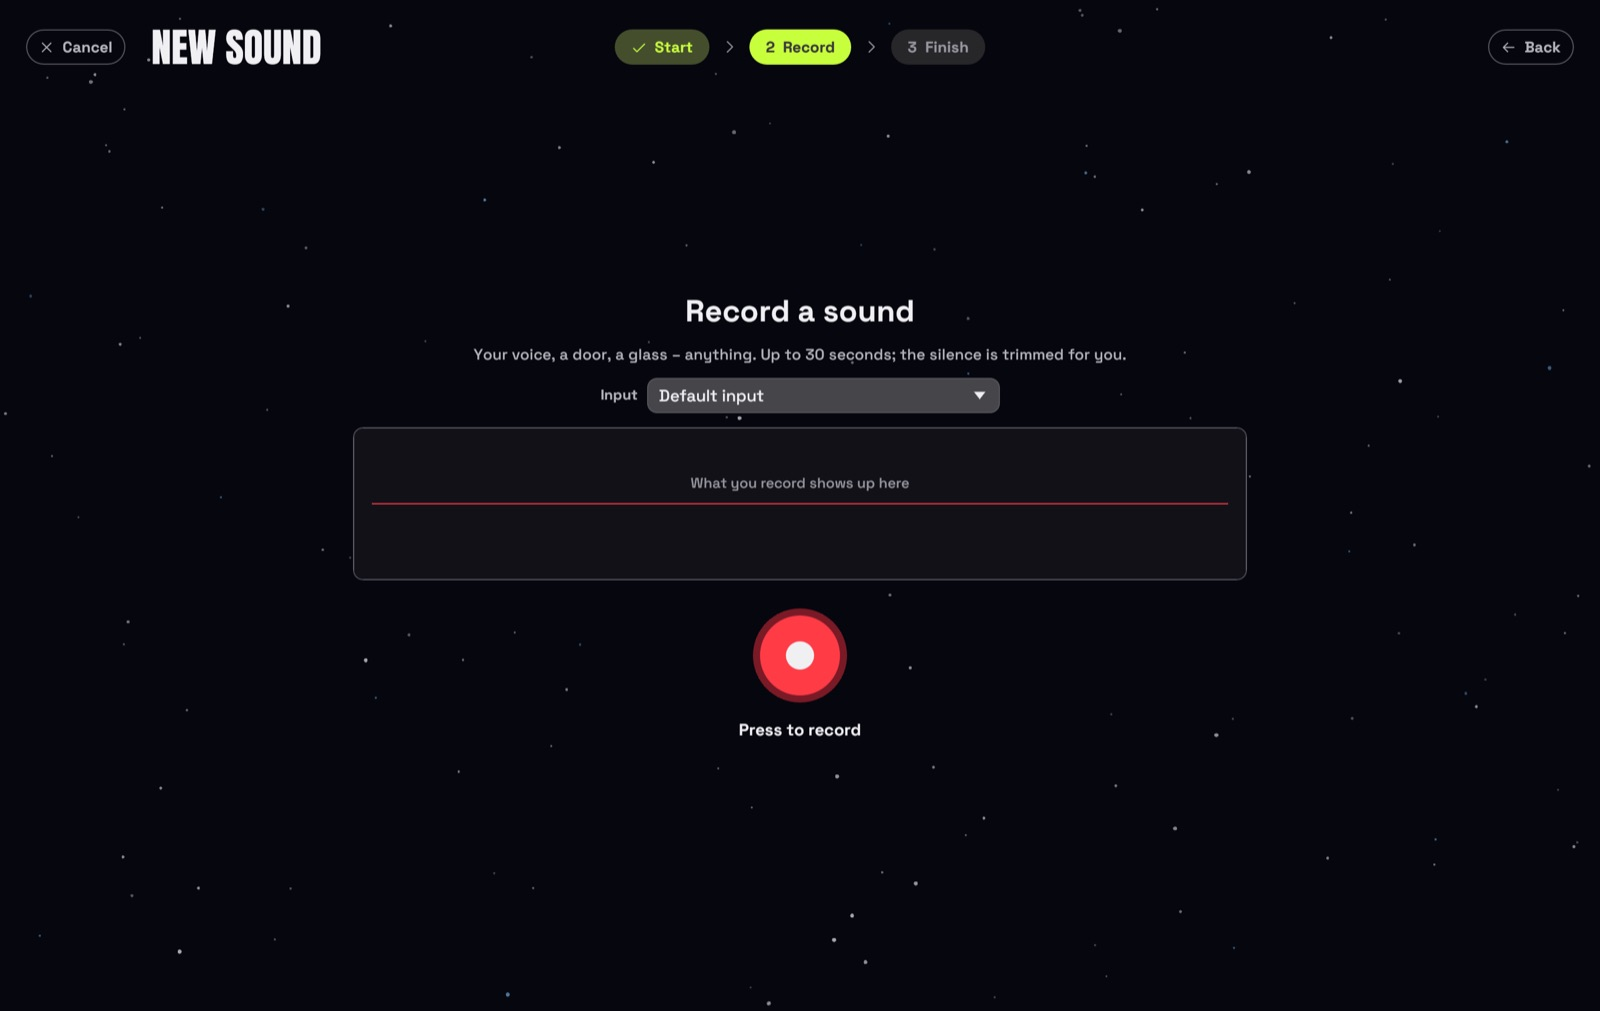
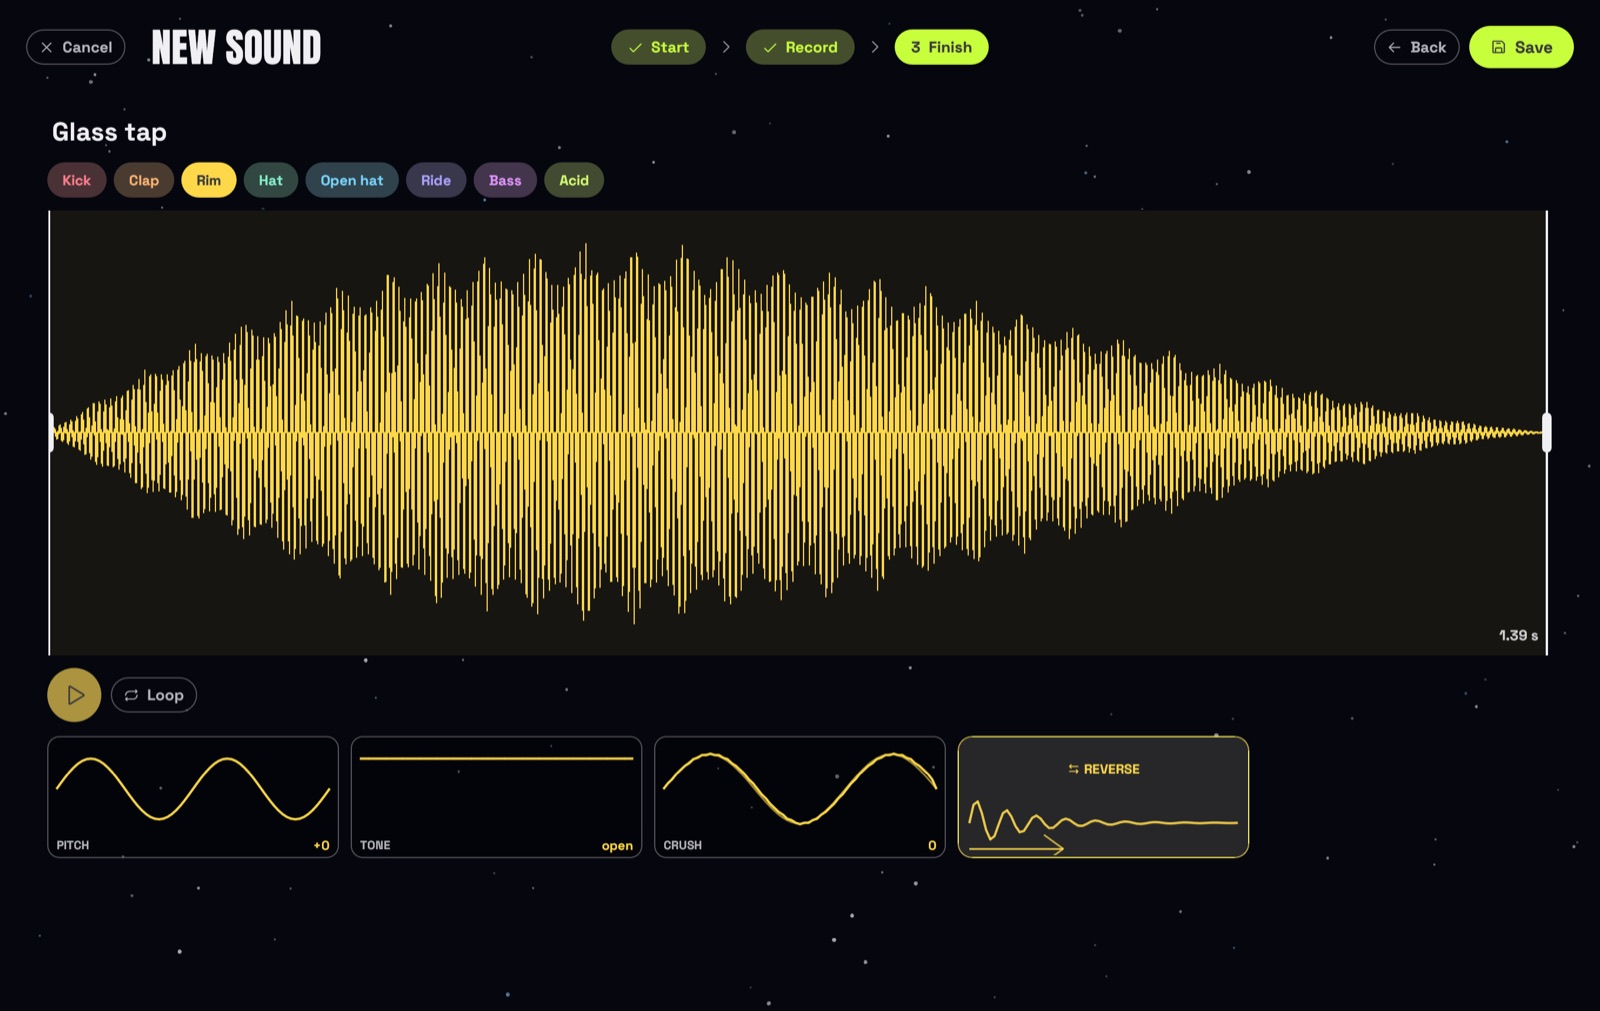
Site: the Record tab shows a fresh take in the editor
A new render, sounds_recorded: a recording that swells and tapers like a
pine cone, open in the editor right after recording, instead of the empty
record screen.

diff --git a/site/index.html b/site/index.html
@@ -75,7 +75,7 @@
         { "@type": "ImageObject", "url": "https://tj537.github.io/solarum/solarum.jpg", "width": 2000, "height": 1264, "caption": "Solarum's planets view with Luna's auto mode, the sound section, live effects and DROP" },
         { "@type": "ImageObject", "url": "https://tj537.github.io/solarum/shot-sounds.jpg", "width": 1600, "height": 1011, "caption": "The sound editor: cut, fade, pitch, tone, crush and reverse your own recorded sound" },
         { "@type": "ImageObject", "url": "https://tj537.github.io/solarum/shot-draw.jpg", "width": 1600, "height": 1011, "caption": "The drawing board: draw a sound's pitch and loudness by hand" },
-        { "@type": "ImageObject", "url": "https://tj537.github.io/solarum/shot-record.jpg", "width": 1600, "height": 1011, "caption": "Recording your own sound with the microphone" },
+        { "@type": "ImageObject", "url": "https://tj537.github.io/solarum/shot-record.jpg", "width": 1600, "height": 1011, "caption": "A sound just recorded with the microphone, open in the editor and ready to cut and save" },
         { "@type": "ImageObject", "url": "https://tj537.github.io/solarum/shot-pads.jpg", "width": 1600, "height": 1011, "caption": "The classic view: sound pads and a step grid" },
         { "@type": "ImageObject", "url": "https://tj537.github.io/solarum/shot-home.jpg", "width": 1600, "height": 1011, "caption": "The start screen with recent projects" },
         { "@type": "ImageObject", "url": "https://tj537.github.io/solarum/shot-lights.jpg", "width": 1600, "height": 1011, "caption": "LIGHTS, the visualizer for a big screen or a projector" }
@@ -660,13 +660,13 @@ footer a.kofi:hover { background: var(--acid); color: var(--space); }
           <div class="window in">
             <div class="bar"><i></i><i></i><i></i></div>
             <div class="stage" id="sound-shots">
-              <img class="on" src="shot-record.jpg" width="1600" height="1011" loading="lazy" alt="Recording a sound in Solarum: pick the input, then press the big red record button" data-cap="Record: your voice, a door, a glass – anything. What you record shows up as a waveform right away.">
+              <img class="on" src="shot-record.jpg" width="1600" height="1011" loading="lazy" alt="A fresh recording in Solarum's editor: a yellow waveform that swells and tapers like a pine cone, with cut bars, the track picker and Save" data-cap="Record: your voice, a door, a glass – anything. When you stop, the take opens in the editor, trimmed and ready to cut.">
               <img src="shot-draw.jpg" width="1600" height="1011" loading="lazy" alt="Solarum's drawing board: a red pitch line falling like a kick drum above a fading loudness lane, with pen, eraser, undo and Soft, Bright and Air buttons" data-cap="Draw: higher is higher, gaps are silence. You hear it after every stroke – with Loop over and over.">
               <img src="shot-sounds.jpg" width="1600" height="1011" loading="lazy" alt="Solarum's sound editor: an orange waveform of a pot-and-pan loop with cut bars, the track picker, and cards for pitch, tone, crush and reverse" data-cap="Shape: cut, fade, pitch, tone, crush and reverse. The waveform shows the sound exactly as it will play.">
             </div>
           </div>
         </div>
-        <p class="shot-cap" data-cap-for="sound-shots">Record: your voice, a door, a glass – anything. What you record shows up as a waveform right away.</p>
+        <p class="shot-cap" data-cap-for="sound-shots">Record: your voice, a door, a glass – anything. When you stop, the take opens in the editor, trimmed and ready to cut.</p>
         <div class="tools">
           <span style="--c:var(--kick)">Cut start &amp; end</span><span style="--c:var(--clap)">Fade in &amp; out</span><span style="--c:var(--rim)">Pitch</span><span style="--c:var(--hat)">Tone: thinner or darker</span><span style="--c:var(--ohat)">Crush</span><span style="--c:var(--ride)">Reverse</span><span style="--c:var(--bass)">Loop</span><span>Undo everything</span>
         </div>

diff --git a/src/snapshot.rs b/src/snapshot.rs
@@ -308,6 +308,26 @@ mod tests {
             app.lib_ui.show_for(None);
             app.lib_ui.finish_with(id, crate::library_ui::Step::Record);
         });
+        // A take right after recording, in the editor: swells and tapers like a pine cone (the website picture)
+        render("sounds_recorded", 1360.0, 860.0, |app| {
+            let sr = crate::sampler::SAMPLE_SR;
+            let mut rng = crate::rng::Rng::new(11);
+            let len = sr * 1.4;
+            let take: Vec<f32> = (0..len as usize)
+                .map(|i| {
+                    let t = i as f32 / sr;
+                    let x = i as f32 / len;
+                    let env = (std::f32::consts::PI * x.powf(0.7)).sin().powf(1.4);
+                    let scales = 1.0 - 0.22 * (std::f32::consts::TAU * 11.0 * t).sin().abs();
+                    let tone = (std::f32::consts::TAU * 190.0 * t).sin() * 0.7 + rng.noise() * 0.3;
+                    tone * env * scales * 0.9
+                })
+                .collect();
+            let id = app.library.add("Glass tap", crate::song::Voice::Rim, take);
+            app.library.set_draft(id, true);
+            app.lib_ui.show_for(None);
+            app.lib_ui.finish_with(id, crate::library_ui::Step::Record);
+        });
         // Luna says hello as the computer comes on (render time is ~10 s)
         render("home", 1360.0, 860.0, |app| {
             app.home = true;
